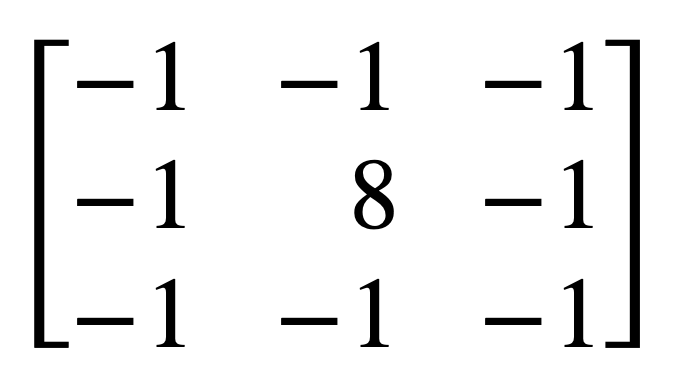
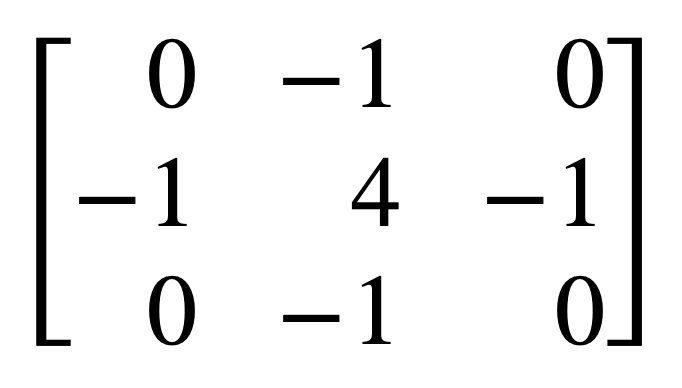
finished

diff --git a/main.py b/main.py
@@ -39,11 +39,11 @@ def main():
     '''
     plt.figure(figsize=(10, 10))
     plot(img, 'Original',1, plot_size=plot_size)
-    plot(img2fft(im), "img fft", 2, plot_size=plot_size, is_fft=True)
+    plot(img2fft(im), "Original(fft)", 2, plot_size=plot_size, is_fft=True)
     plot(high_kernel_img, 'Highpass Filter Kernel', 3, plot_size=plot_size)
-    plot(high_kernel_fft, 'Highpass FilteraKernel', 4, is_fft=True, plot_size=plot_size)
-    plot(high_pass_fft, 'Highpass Filtered (Freq Domain)', 5, plot_size=plot_size)
-    plot(img2fft(high_pass_fft), 'Highpass Filtered (Freq Domain)', 6, is_fft=True, plot_size=plot_size)
+    plot(high_kernel_fft, 'Highpass Filter Kernel(fft)', 4, is_fft=True, plot_size=plot_size)
+    plot(high_pass_fft, 'Highpass Filtered', 5, plot_size=plot_size)
+    plot(img2fft(high_pass_fft), 'Highpass Filtered(fft)', 6, is_fft=True, plot_size=plot_size)
     
     plt.tight_layout()
     plt.show()
@@ -59,9 +59,17 @@ def main():
     plot(low_pass_fft, 'Lowpass Filtered', 5, plot_size=plot_size)
     plot(img2fft(low_pass_fft), 'Lowpass Filtered(fft)', 6, is_fft=True, plot_size=plot_size)
 
+    plt.tight_layout()
+    plt.show()
 
-
-
+    '''
+    conv filter
+    '''
+    conv_highpass_filters = conv_highpass(img, filter_name='3x3')
+    conv_lowpass_filters = conv_lowpass(img, filter_name='5x5')
+    plt.figure(figsize=(10, 10))
+    plot(conv_highpass_filters, "highpass(conv)", 1, plot_size=plot_size)
+    plot(conv_lowpass_filters, "lowpass(conv)", 2, plot_size=plot_size)
     plt.tight_layout()
     plt.show()
 

diff --git a/util_conv_filter.py b/util_conv_filter.py
@@ -13,11 +13,13 @@ def conv_highpass(data, filter_name):
     
     if filter_name == '3x3':
         # 簡單的 3x3 高通濾波器
-        kernel_highpass_3x3 = np.array([[-1, -1, -1],
-                                        [-1,  8, -1],
-                                        [-1, -1, -1]])
+        kernel_highpass_3x3 = np.array([[ 0, -1,  0],
+                                        [-1,  4, -1],
+                                        [ 0, -1,  0]])
         highpass_3x3 = ndimage.convolve(data, kernel_highpass_3x3)
-        highpass_3x3 = (highpass_3x3 - highpass_3x3.min()) / (highpass_3x3.max() - highpass_3x3.min()) * 255
+        highpass_3x3 = np.real(highpass_3x3)
+        highpass_3x3 = np.uint8(np.abs(highpass_3x3))
+        # highpass_3x3 = (highpass_3x3 - highpass_3x3.min()) / (highpass_3x3.max() - highpass_3x3.min()) * 255
         return highpass_3x3
 
     if filter_name == '5x5':
